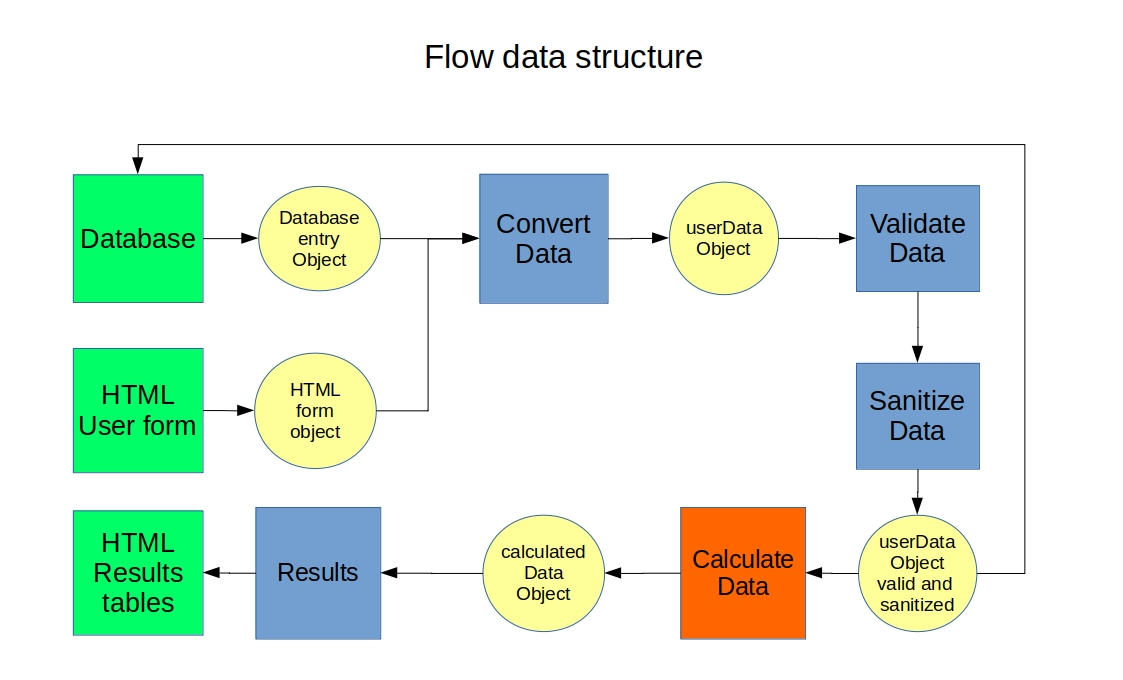
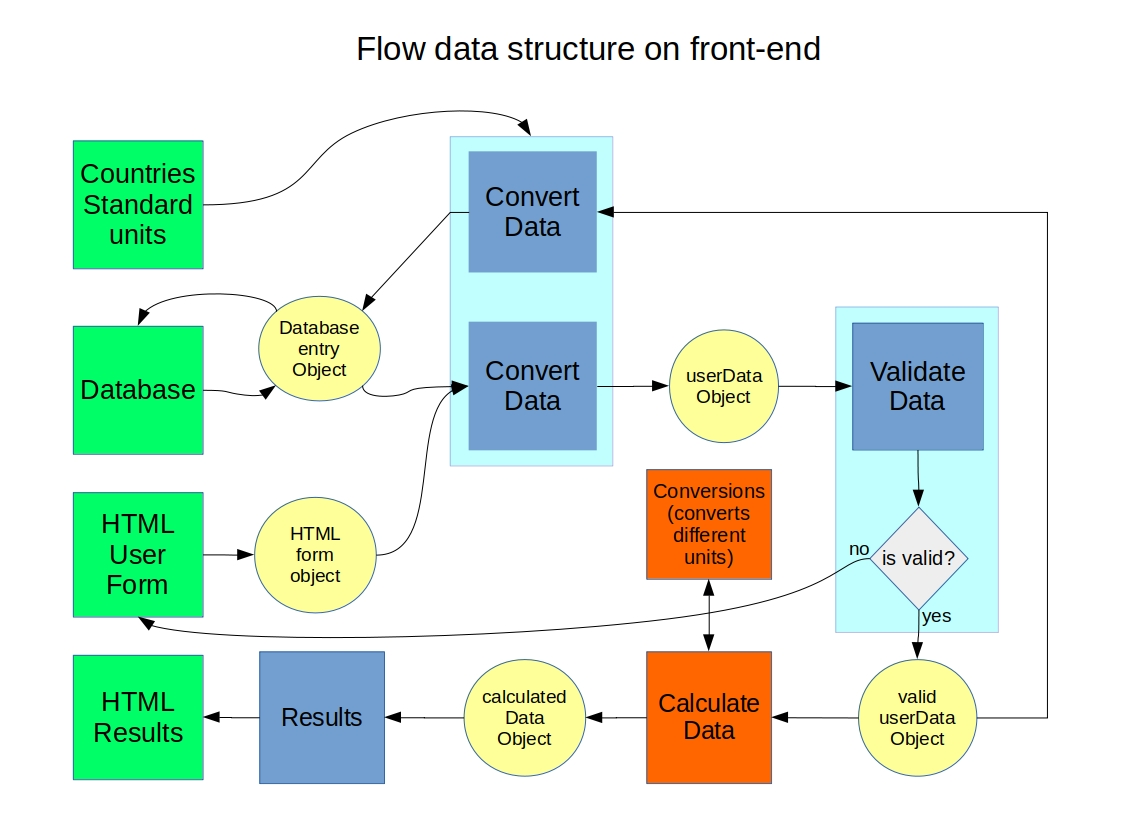
documentation

Changed region(s): [[0.0623, 0.0309, 0.935, 0.9574], [0.9038, 0.2471, 0.935, 0.2779], [0.2182, 0.2162, 0.2493, 0.2471]]

diff --git a/contributing.md b/contributing.md
@@ -391,7 +391,7 @@ The core function [`calculateCosts`](src/client/core/calculator.js) returns an o
 
 ## Modules
 
-![Front-end client module architecture](docs/flowchart.jpg)
+![Front-end client module architecture](docs/moduleArchitecture.jpg)
 
 <a href="https://medium.freecodecamp.org/javascript-modules-a-beginner-s-guide-783f7d7a5fcc">Javscript modules should be used</a>. This approach lets us decide what variables/methods we want to keep private (e.g. myGrades) and what variables/methods we want to expose by putting them in the return statement (e.g. average & failing).
 
